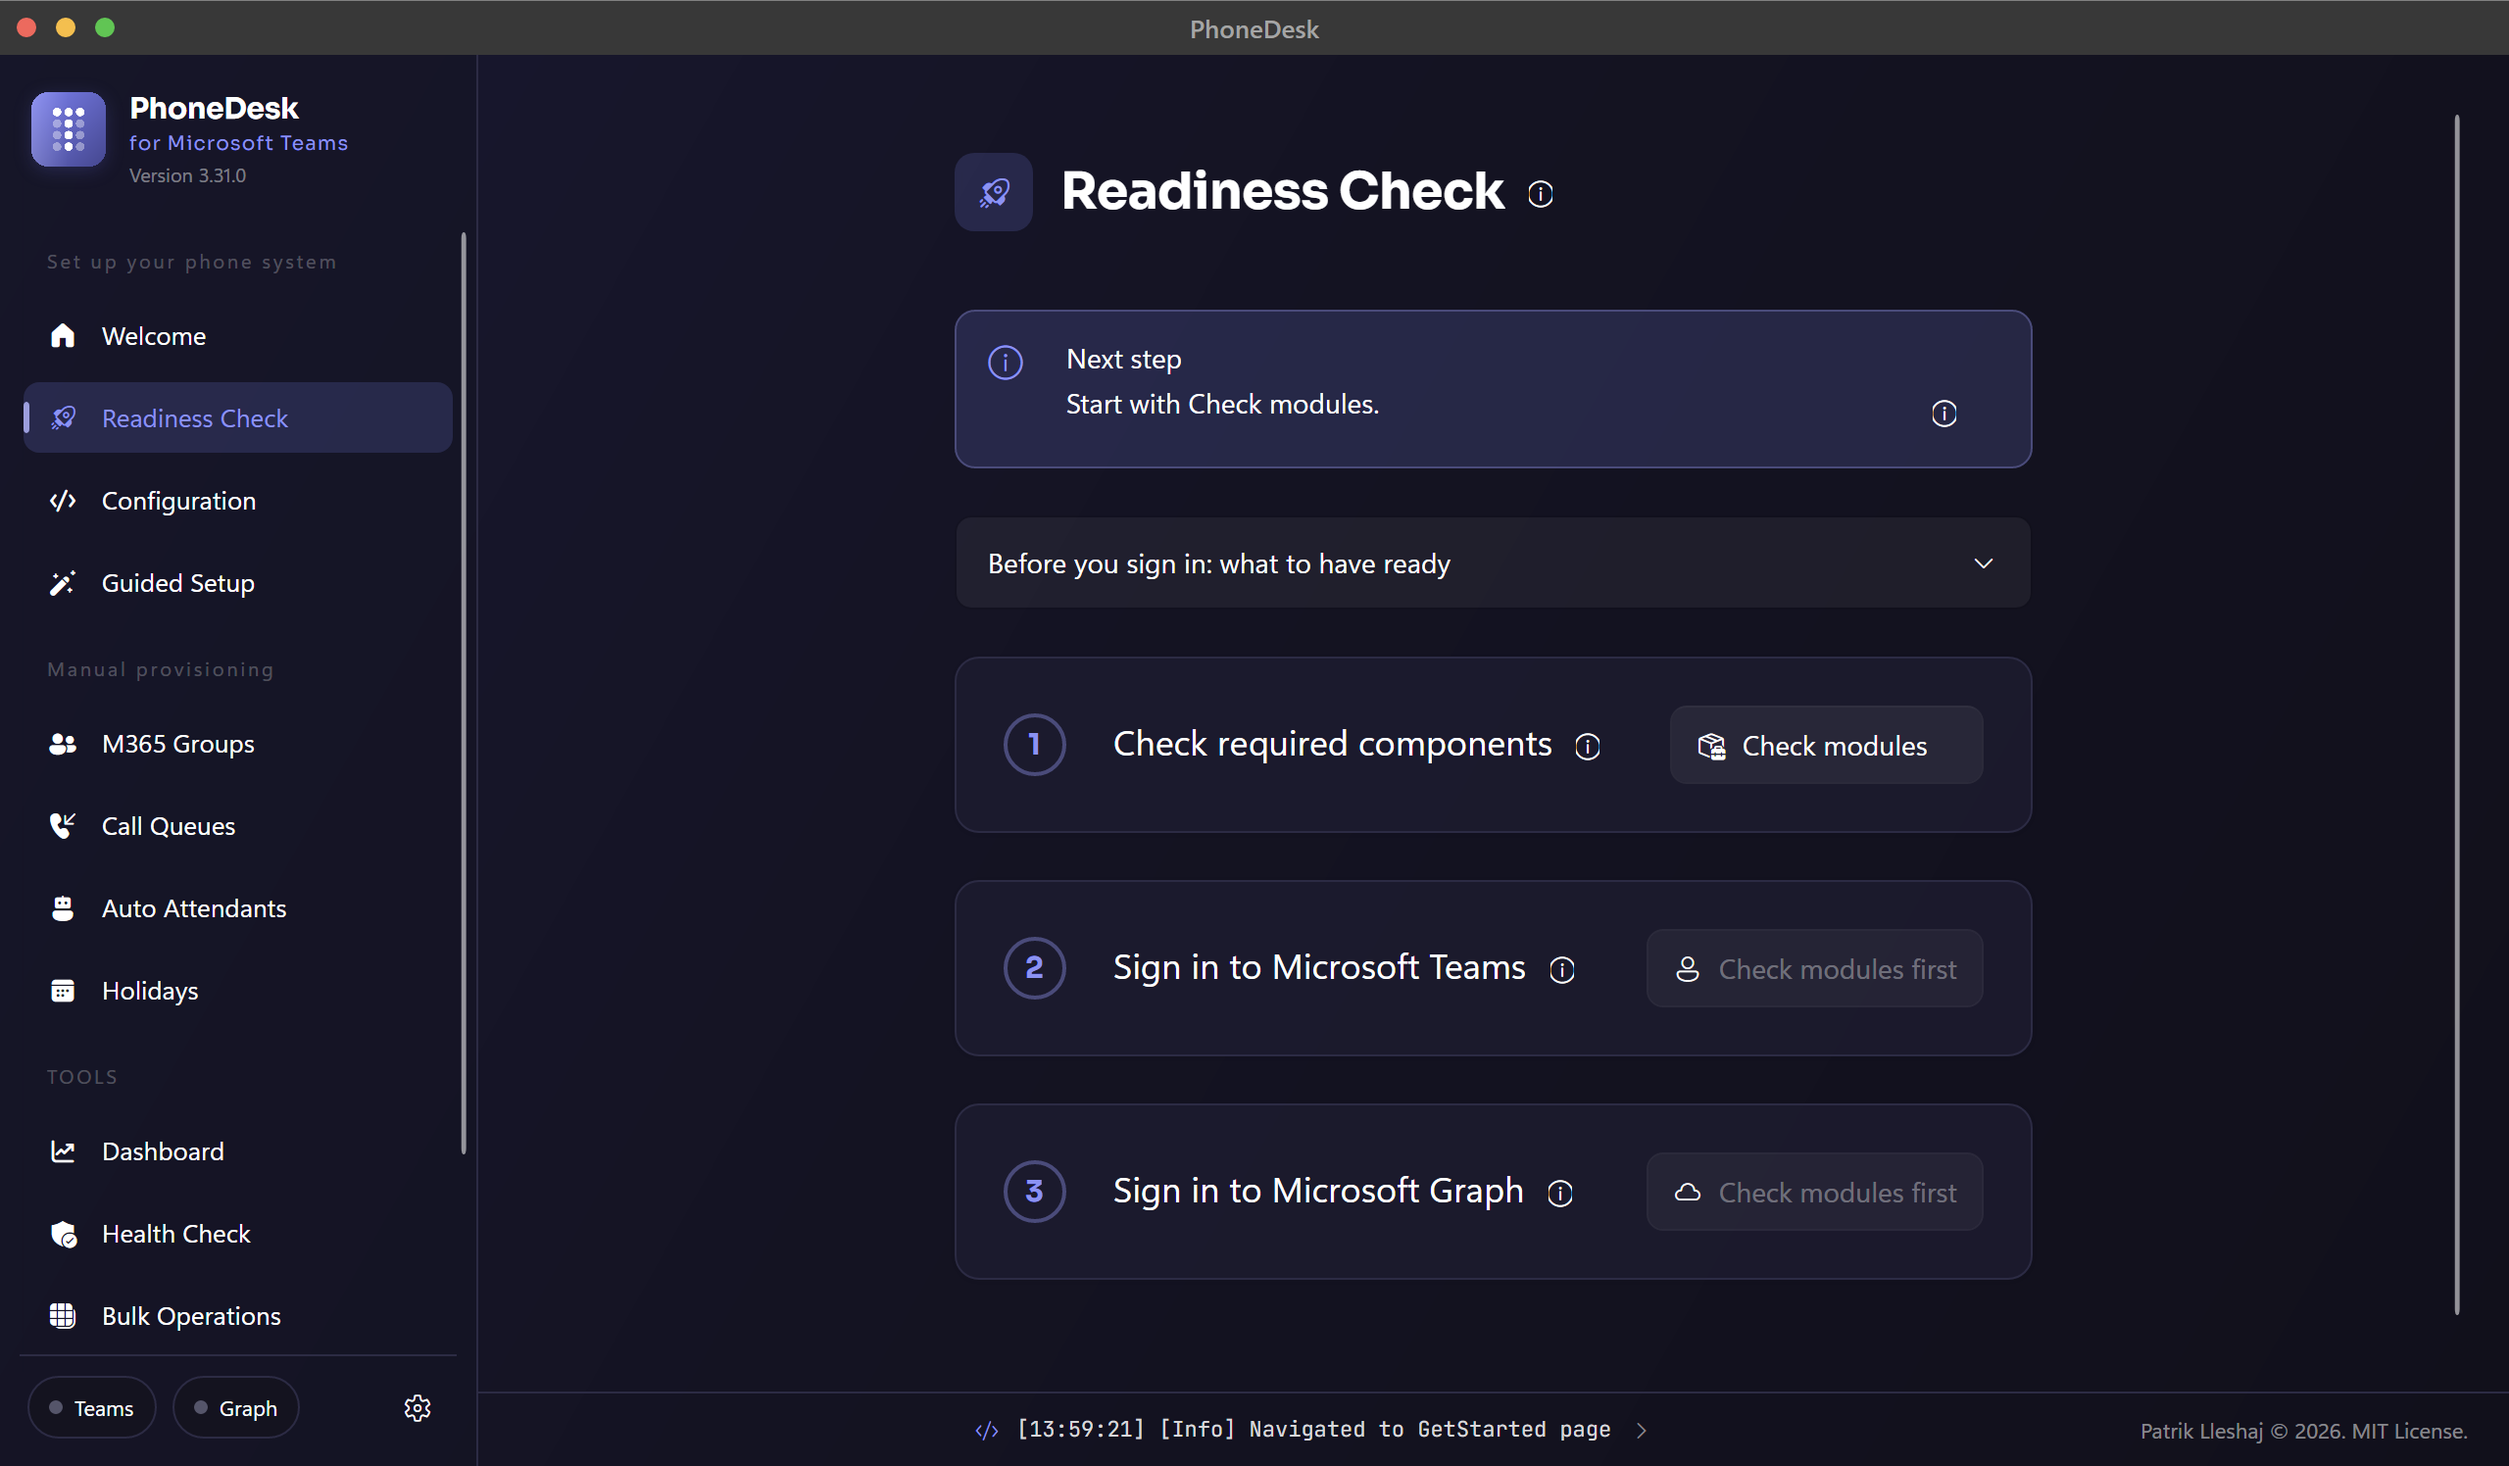
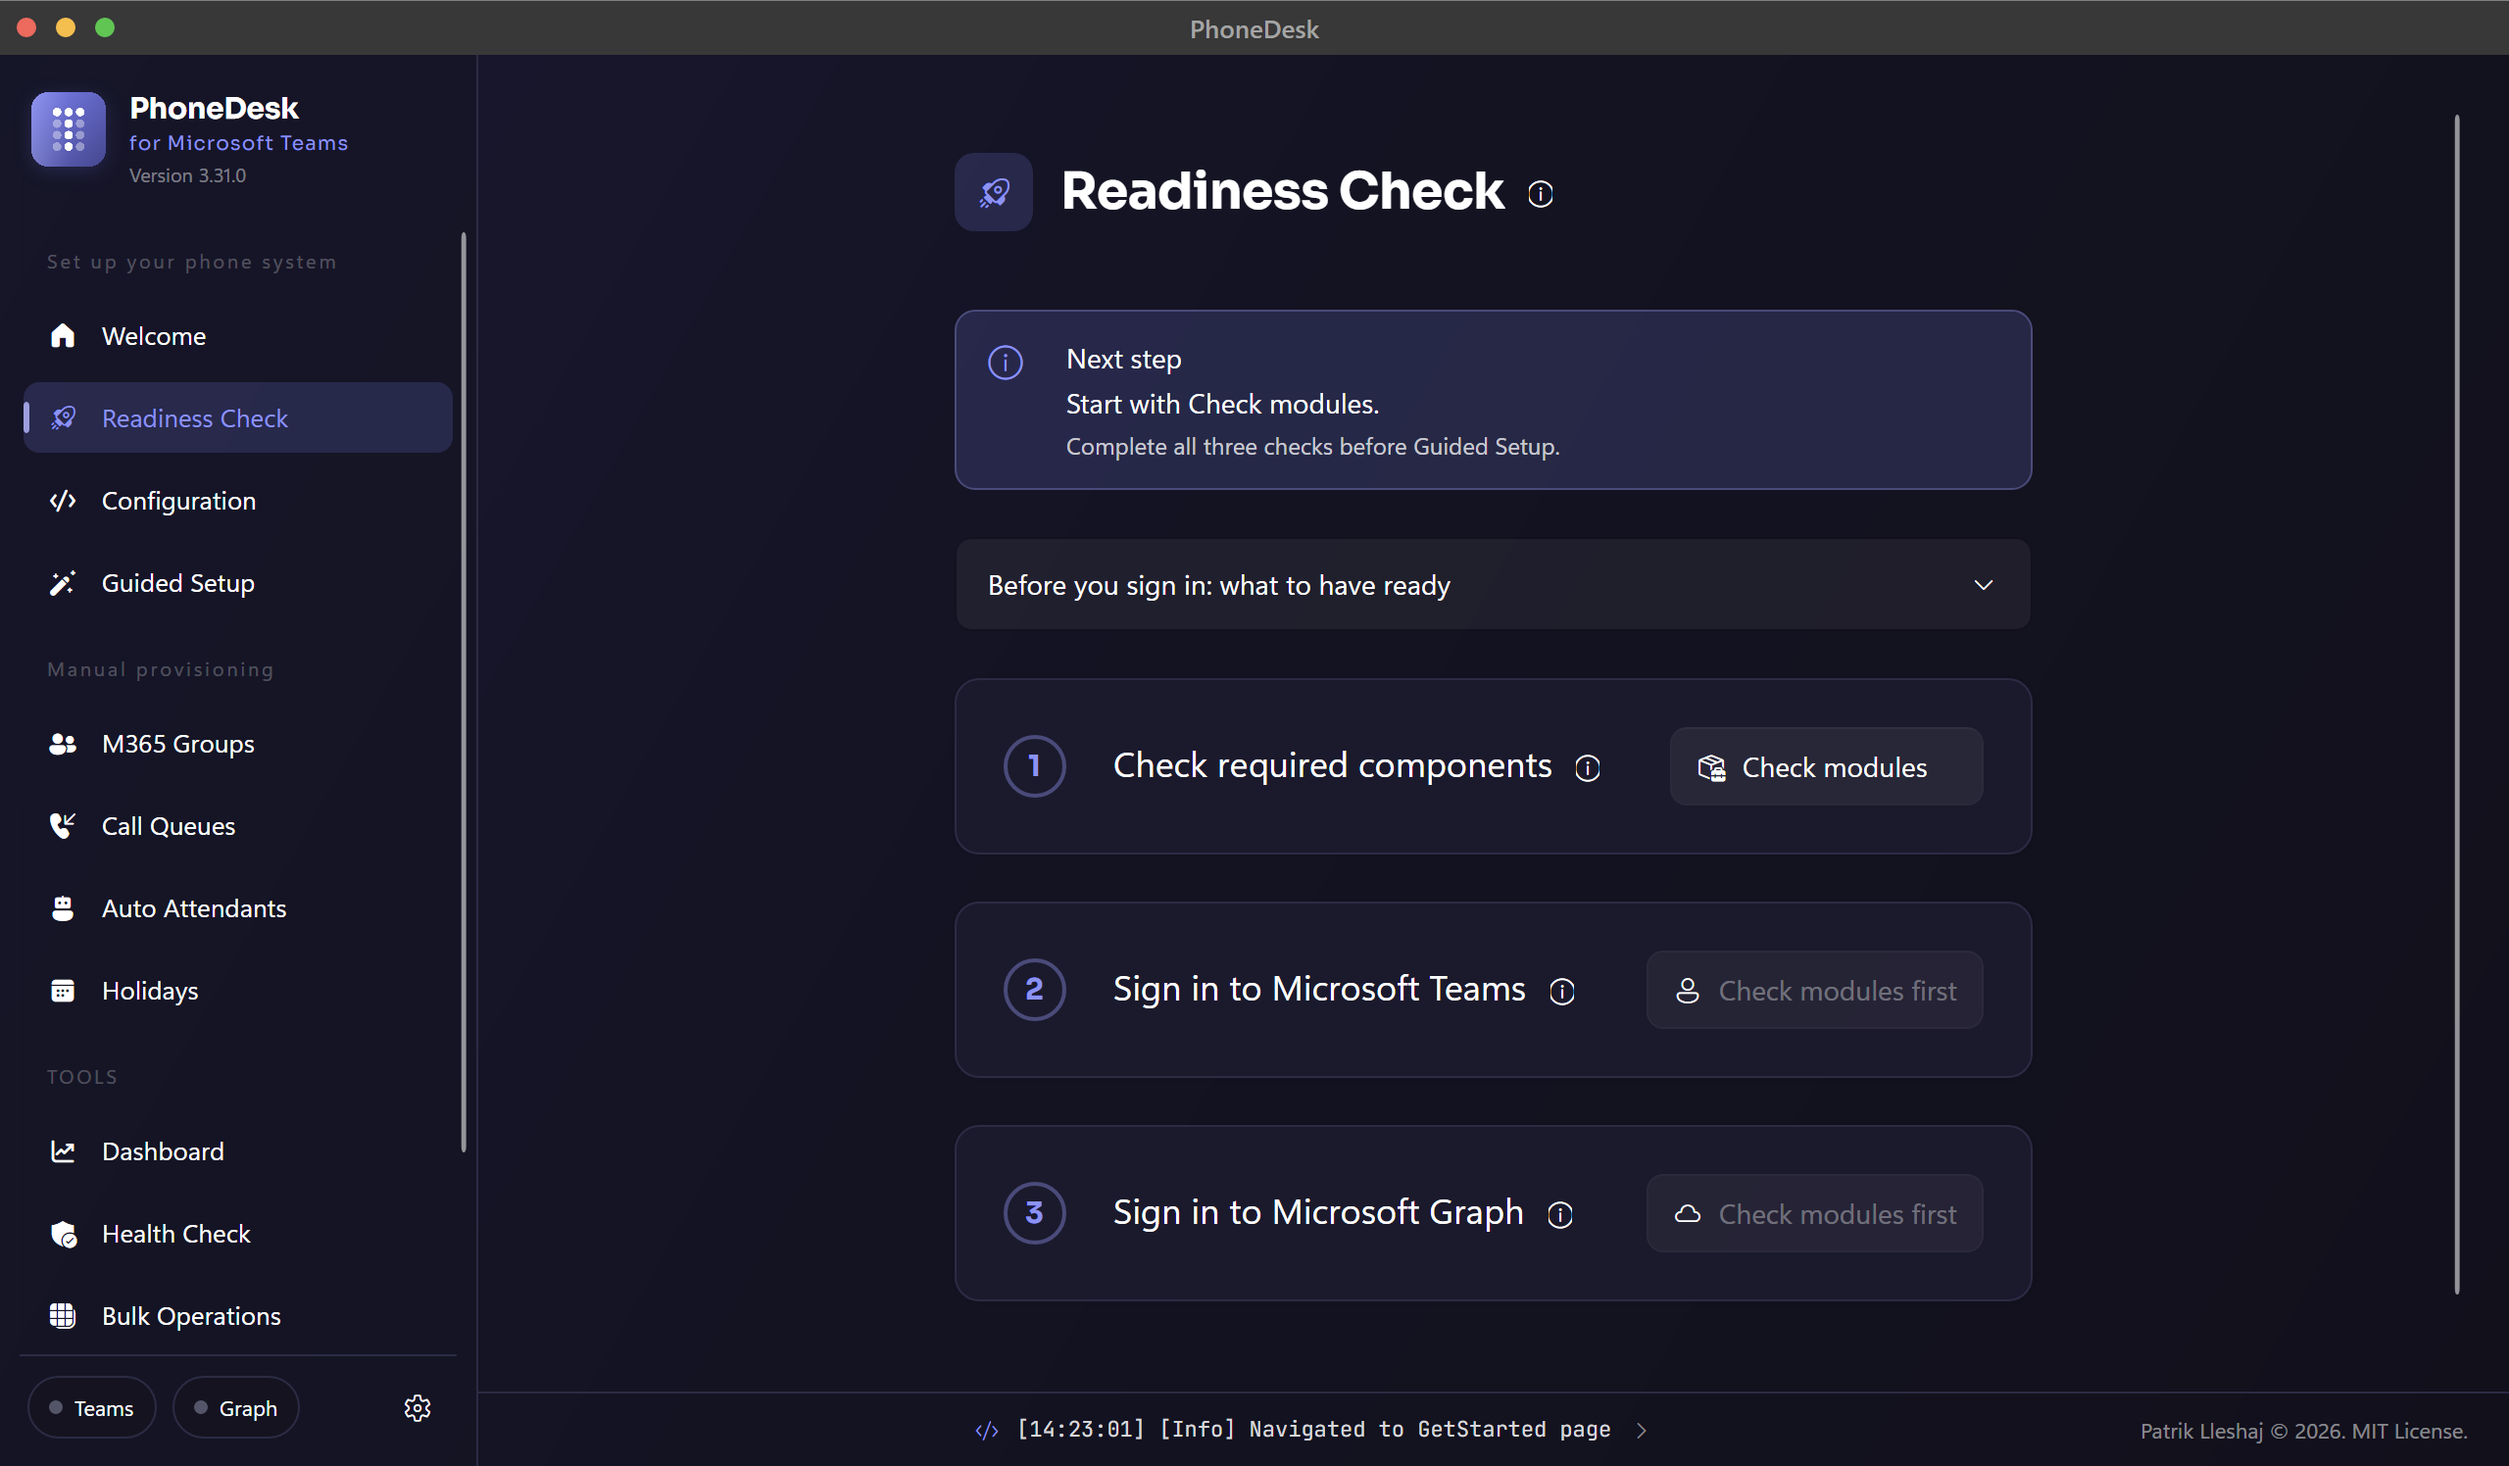
fix: keep readiness prerequisites visible and support CI parsing

diff --git a/PhoneDesk.Tests/ScreenshotGenerator.cs b/PhoneDesk.Tests/ScreenshotGenerator.cs
@@ -457,6 +457,12 @@ namespace PhoneDesk.Tests
             mainWindowViewModel.IsSettingsOpen = false;
             if (scenario.StartsWith("navigation-", StringComparison.Ordinal))
             {
+                if (mainWindowViewModel.CurrentViewModel is GetStartedViewModel readiness)
+                {
+                    var prerequisite = window.GetVisualDescendants().OfType<TextBlock>().Single(t => t.Name == "ReadinessPrerequisite");
+                    Assert.Equal(!readiness.CanProceed, prerequisite.IsVisible);
+                    Assert.Equal(readiness.SetupGuidanceDetail, prerequisite.Text);
+                }
                 if (mainWindowViewModel.CurrentViewModel is VariablesViewModel)
                 {
                     var next = window.GetVisualDescendants().OfType<Button>().Single(b => b.Name == "ContinueToGuidedSetupButton");

diff --git a/PhoneDesk.Tests/LocalizationServiceTests.cs b/PhoneDesk.Tests/LocalizationServiceTests.cs
@@ -168,12 +168,17 @@ public sealed class LocalizationServiceTests
                 }
             });
 
-    private sealed class InMemoryUserPreferencesStore(AppLanguage? initialLanguage = null) : IUserPreferencesStore
+    private sealed class InMemoryUserPreferencesStore : IUserPreferencesStore
     {
+        public InMemoryUserPreferencesStore(AppLanguage? initialLanguage = null)
+        {
+            SavedLanguage = initialLanguage;
+        }
+
         public bool LoadIntroductionDismissed() => true;
         public void SaveIntroductionDismissed() { }
 
-        public AppLanguage? SavedLanguage { get; private set; } = initialLanguage;
+        public AppLanguage? SavedLanguage { get; private set; }
 
         public AppLanguage? LoadLanguage() => SavedLanguage;
 

diff --git a/src/PhoneDesk.Presentation/ViewModels/GetStartedViewModel.cs b/src/PhoneDesk.Presentation/ViewModels/GetStartedViewModel.cs
@@ -55,7 +55,7 @@ namespace PhoneDesk.ViewModels
                 "Your connections are ready. You can start the customer configuration now.")
             : GetText(
                 UiTextKey.GetStartedSetupGuidanceDetailBlocked,
-                "Complete all three checks before running Guided Setup. You can already prepare the form in Configuration.");
+                "Complete all three checks before Guided Setup.");
 
         public string ModulesActionText => ModulesChecked
             ? GetText(UiTextKey.GetStartedCheckAgainAction, "Check again")

diff --git a/src/PhoneDesk.Presentation/ViewModels/MainWindowViewModel.cs b/src/PhoneDesk.Presentation/ViewModels/MainWindowViewModel.cs
@@ -665,7 +665,8 @@ namespace PhoneDesk.ViewModels
                     OnPropertyChanged(nameof(AuditLogDirectory));
                 }
             };
-            _translationService?.PropertyChanged += _translationPropertyHandler;
+            if (_translationService != null)
+                _translationService.PropertyChanged += _translationPropertyHandler;
 
             _navigationPropertyHandler = (s, e) =>
             {
